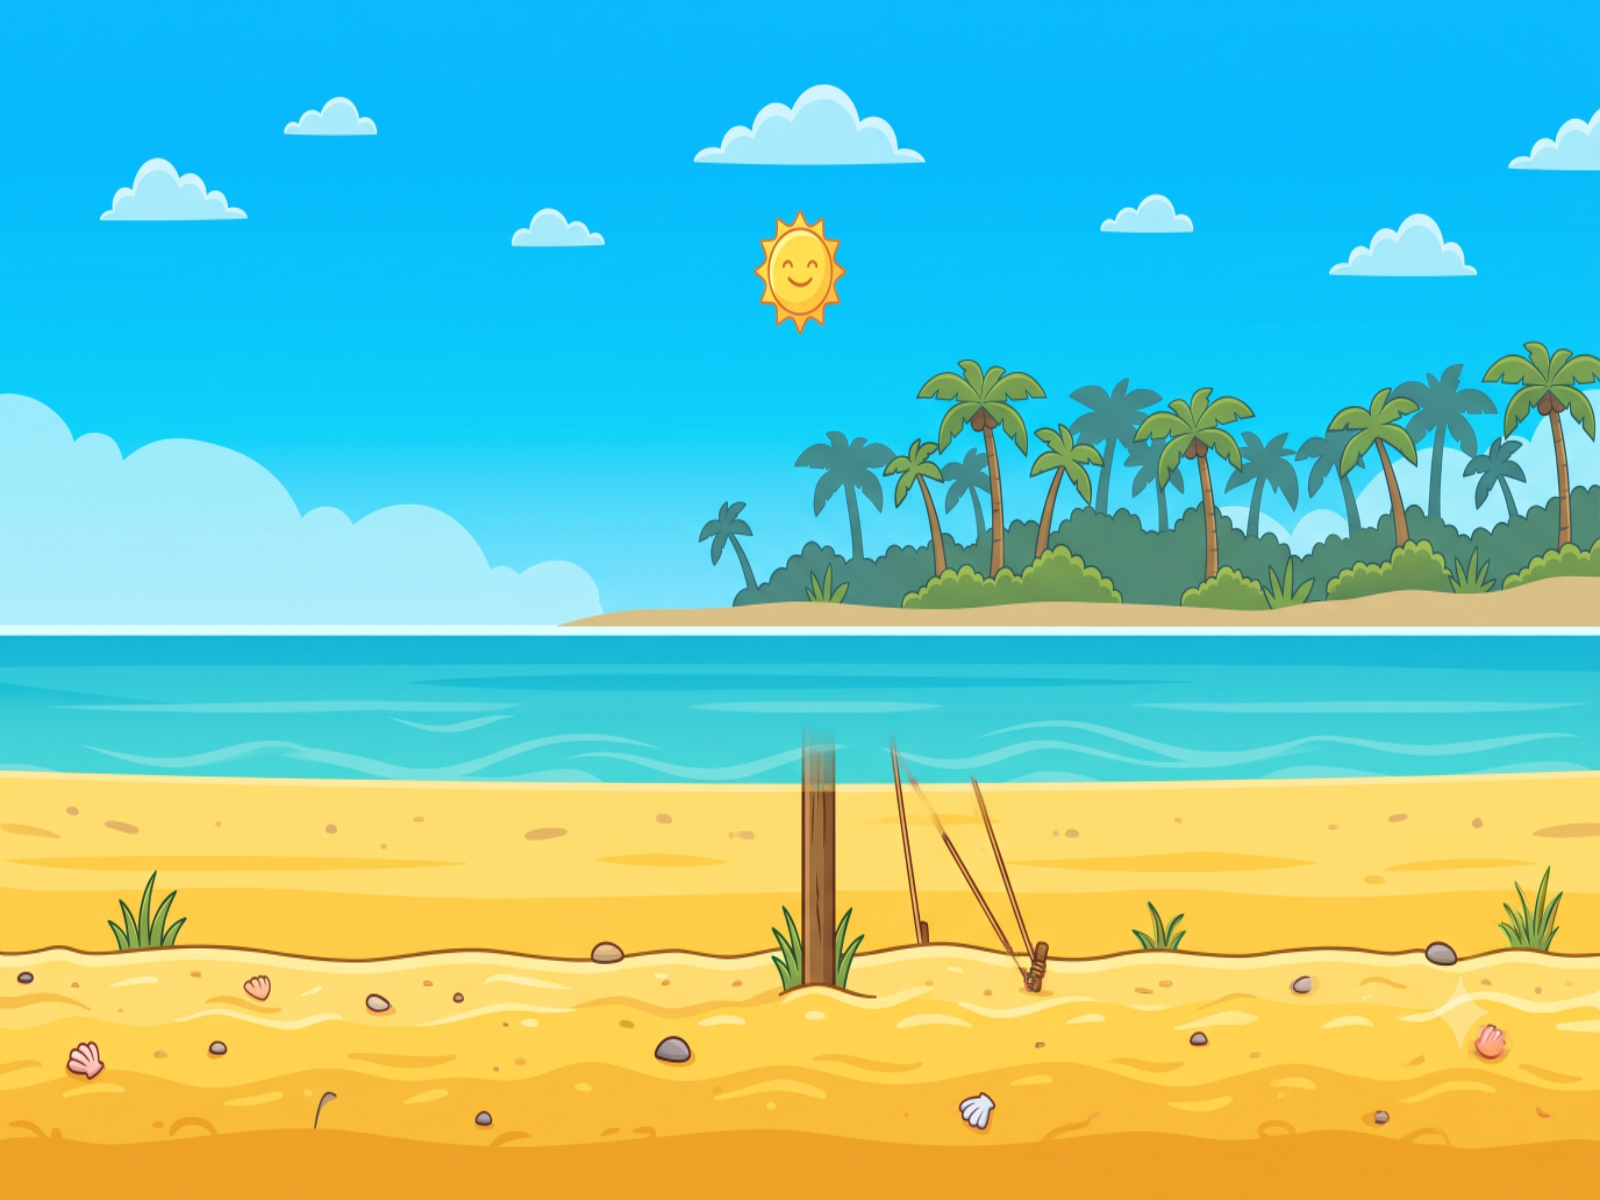
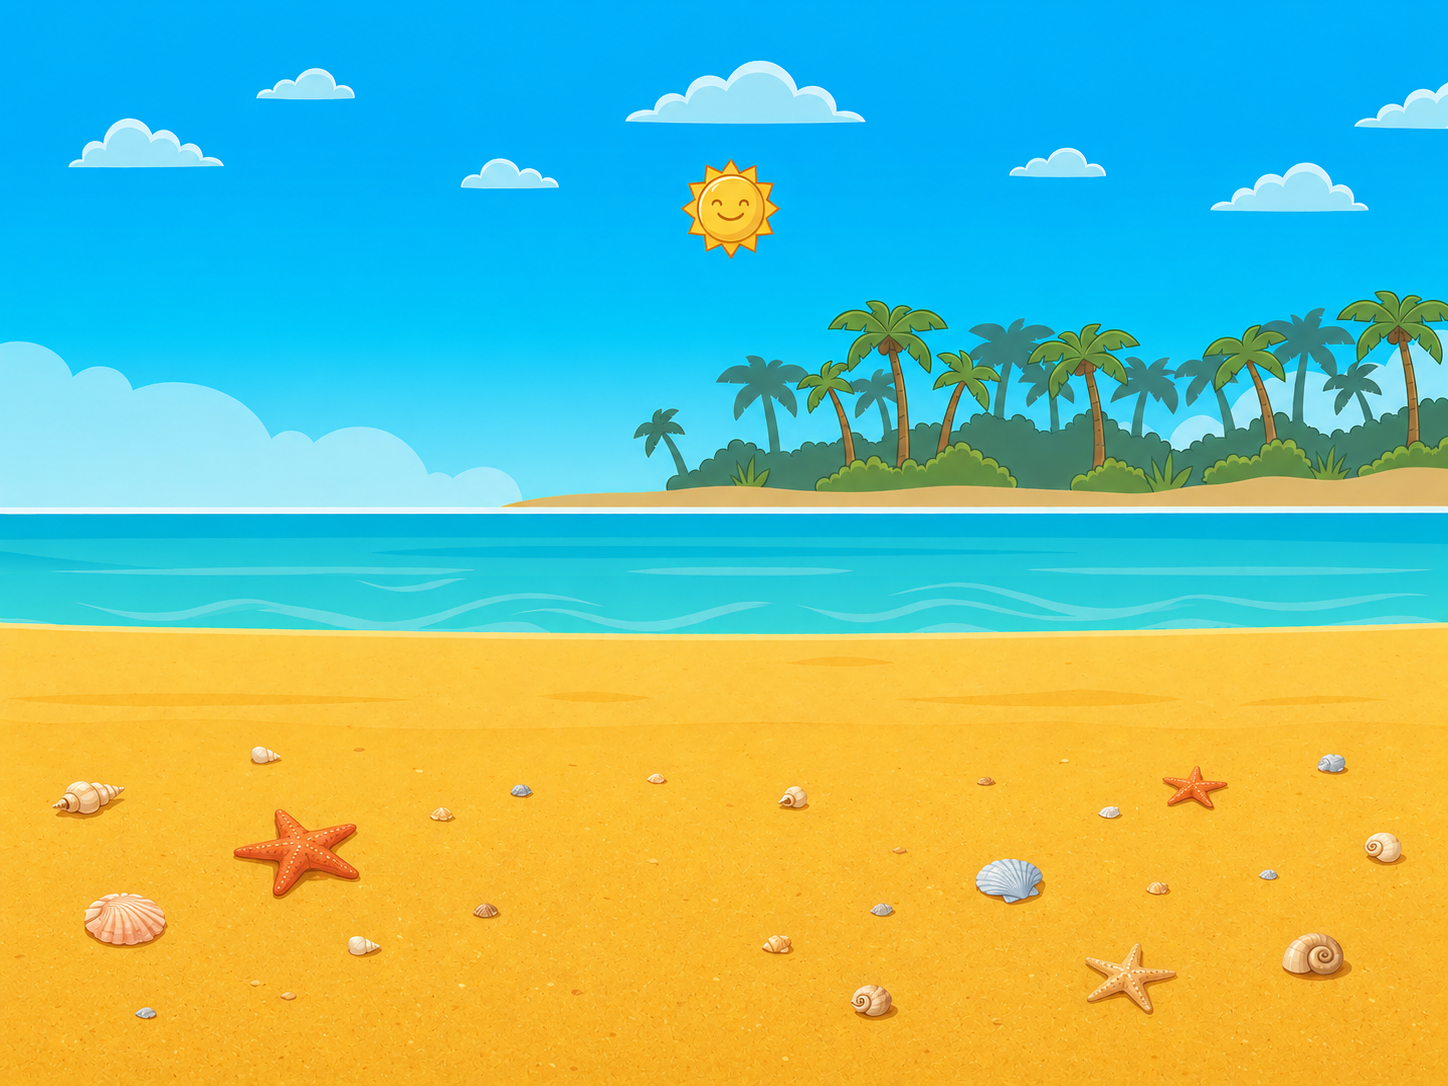
feat(assets): keep the replaced background (M1-09)
Der von r0btoshi ausgetauschte Hintergrund, 1448 x 1086, 1 749 821 Bytes.
CREDITS und ASSET_INVENTORY auf die tatsaechlichen Masse nachgezogen; die
Zahlen dort beschrieben noch die Fassung davor.

Diese Datei war zweimal verlorengegangen, beide Male durch mich: einmal durch
ein --resize aus dem Original der Historie heraus, einmal durch ein
git checkout, mit dem ich eine vermeintlich fehlerhafte Datei zurueckgesetzt
habe. Sie war nicht fehlerhaft, sie war neu.

Claude-Session: https://claude.ai/code/session_01SuUfbcMnVeAjRbEebhfFdR

diff --git a/docs/ASSET_INVENTORY.md b/docs/ASSET_INVENTORY.md
@@ -110,11 +110,14 @@ die SHA-256 unterscheiden sich. Gleiche Länge und gleiches Format (rund 0,87 s 
 
 Alle drei Punkte sind abgearbeitet:
 
-1. **`bg.jpg` → `assets/bg.png`, 2752 × 1536 → 1600 × 1200.** Aus 5 040 745 Bytes wurden
-   1 642 578 — rund 3,4 MB weniger im Paket, und der Texturspeicher fällt von etwa 16 MB
-   auf 7,7 MB. 1600 × 1200 ist die doppelte Auflösung dessen, was das Spiel zeigt: der
-   Hintergrund wird ohnehin auf 800 × 600 gezerrt (`src/render/game_view.lua:76`), das
-   Seitenverhältnis der Quelle war nie maßgeblich.
+1. **`bg.jpg` → `assets/bg.png`, aus 2752 × 1536 verkleinert.** Der Hintergrund wird
+   ohnehin auf 800 × 600 gezerrt (`src/render/game_view.lua:76`), das Seitenverhältnis der
+   Quelle war nie maßgeblich; gebraucht wird ungefähr die doppelte Auflösung des
+   Gezeigten. Aus 5 040 745 Bytes und rund 16 MB Texturspeicher wurden so gut 1,7 MB und
+   6 MB.
+   **Stand 2026-08-12 liegt eine von r0btoshi ausgetauschte Fassung in 1448 × 1086 vor**
+   (1 749 821 Bytes). Wer sie erneut tauscht, verkleinert mit
+   `love . --resize=assets/bg.png:1600x1200` — das Werkzeug liegt seit M1-09 im Repo.
    Verkleinert mit LÖVE selbst (Canvas → `ImageData:encode`), um keine Bildbibliothek als
    Abhängigkeit aufzunehmen. Das C2PA-Manifest der Ursprungsdatei ist damit aus der
    ausgelieferten Fassung verschwunden — **in der Git-Historie bleibt es**.

diff --git a/assets/CREDITS.md b/assets/CREDITS.md
@@ -21,7 +21,7 @@ weiter und bleibt still, wo ein Klang fehlte (`src/app/assets.lua`, `ASSET_INVEN
 
 | Datei | Größe | Maße | Verwendung |
 |---|---|---|---|
-| `bg.png` | 1,6 MB | 1600 × 1200 | Hintergrund, wird auf 800 × 600 gezeichnet |
+| `bg.png` | 1,7 MB | 1448 × 1086 | Hintergrund, wird auf 800 × 600 gezeichnet |
 | `blob.png` | 84 kB | 496 × 271 | Spielfigur, zur Laufzeit eingefärbt |
 | `ball.png` | 119 kB | 304 × 310 | Ball |
 | `icon.png` | 82 kB | 512 × 512 | Fenster- und Programmsymbol |
@@ -31,8 +31,9 @@ Die 256er-Fassung für das EXE-Symbol liegt als `dist/icon-256.png`.
 
 **Zur Historie von `bg.png`:** Die Datei hieß bis M1-09 `bg.jpg`, war aber schon immer ein
 PNG (`ASSET_INVENTORY` §4). Sie lag in 2752 × 1536 vor und belegte rund 16 MB
-Texturspeicher; seit M1-09 liegt sie in 1600 × 1200 vor, also in exakt der doppelten
-Auflösung dessen, was das Spiel zeigt. Die Ursprungsfassung bleibt in der Git-Historie.
+Texturspeicher; seit M1-09 wird eine verkleinerte Fassung ausgeliefert. Die aktuelle stammt
+vom 2026-08-12 und belegt 6,0 MB Texturspeicher. Alle früheren Fassungen bleiben in der
+Git-Historie.
 
 ## Klänge
 
